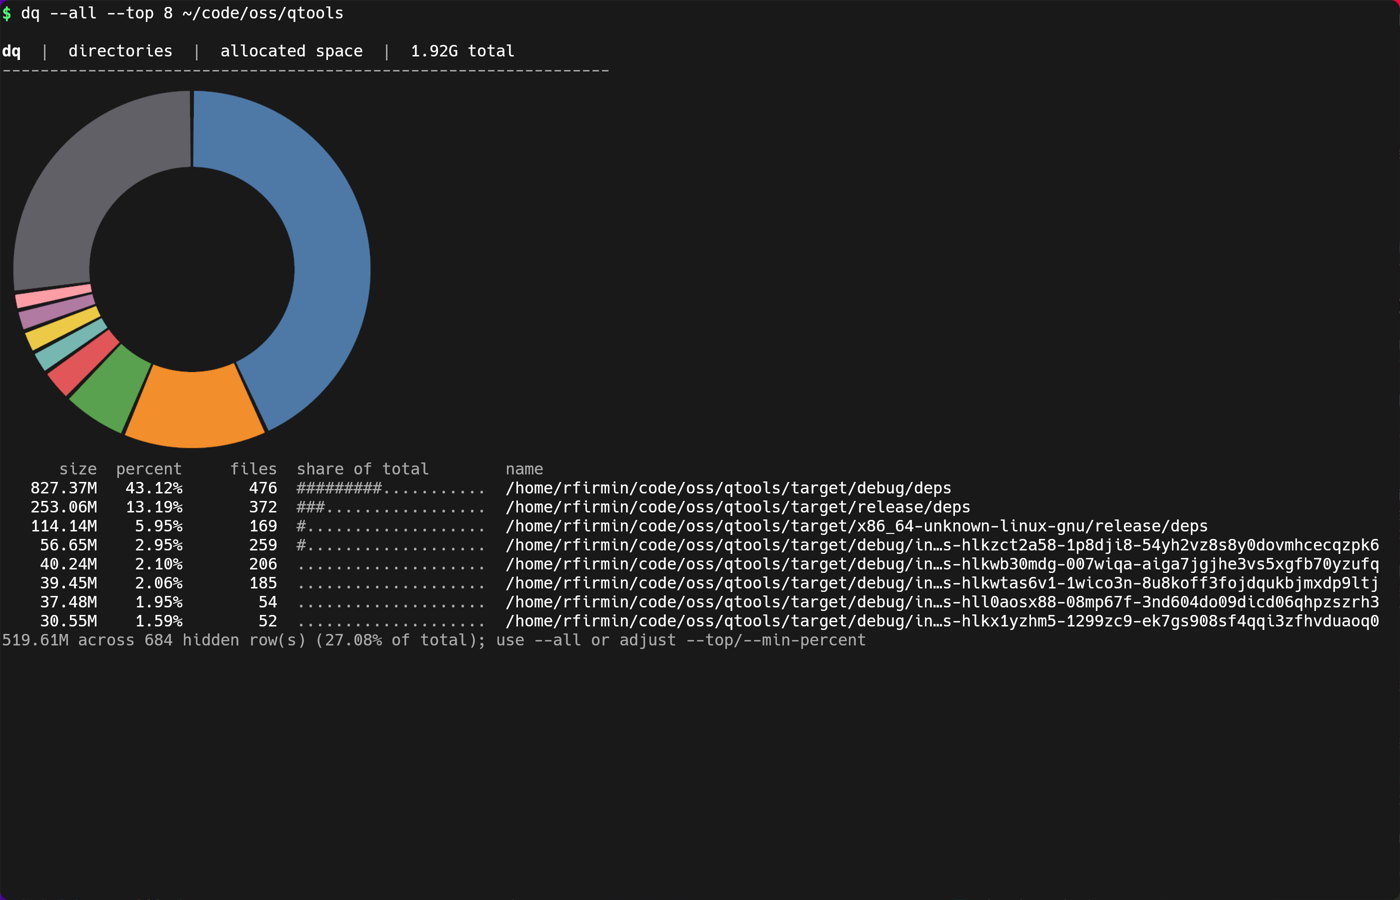
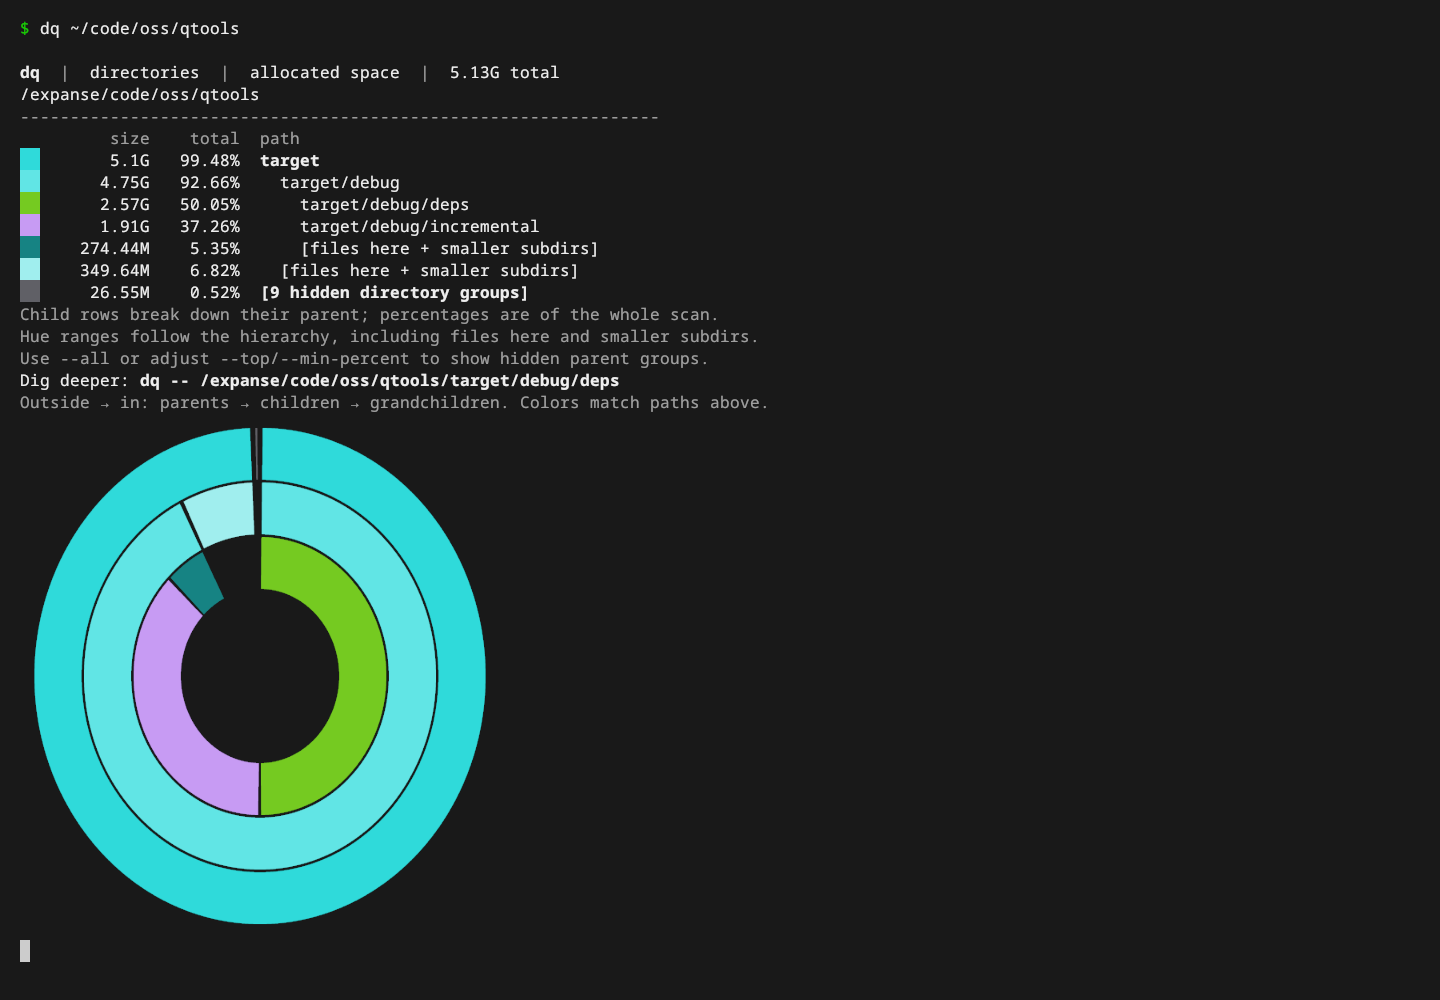
DQ filesystem

diff --git a/src/lib/Gallery.svelte b/src/lib/Gallery.svelte
@@ -9,7 +9,8 @@
     { image: 'pq-network.png', command: 'pq --net -n 8', caption: 'match connections and listeners to processes', title: 'Who is talking?', notes: ['The outer ring is active connections; the inner ring is listening sockets.', 'Red ports are listening on more than localhost.'], alt: 'pq two-ring network overview showing established connections and listeners including keylogger dot sh' },
     { image: 'pq-io.png', command: 'pq --io -n 10', caption: 'see which processes are reading and writing', title: 'Who is doing I/O?', notes: ['Three short-lived demo writers make the comparison visible here.', 'The table shows the rate measured over 400 ms, not a lifetime total.'], alt: 'pq process IO report with three demo workloads and their write rates' },
     { image: 'pq-tree.png', command: 'pq --tree chrome --cpu', caption: 'keep parent and child processes together', title: 'How did it start?', notes: ['The tree keeps parent and child relationships visible.', 'With --cpu, siblings are sorted without flattening the tree.'], alt: 'pq process tree filtered to Chrome with aligned CPU memory swap PID and parent PID columns' },
-    { image: 'dq-project.png', command: 'dq --all --top 8 ~/code/oss/qtools', caption: 'find the largest parts of a project checkout', title: 'Where did the space go?', notes: ['This checkout is mostly compiler output under target.', '--all shows the largest nested directories, not only the first level.'], alt: 'dq allocated-space report showing the largest directories in the qtools project' },
+    { image: 'dq-filesystem.png', command: 'dq --min-percent 5 /expanse', caption: 'see directory hierarchies and free space across a filesystem', title: 'How full is the filesystem?', notes: ['Read outside → in: parent directories, children, grandchildren.', 'Colors in the rings match the indented path list.', 'Free space shares the outer ring with directories.'], alt: 'dq filesystem report with three aligned directory rings, matching path colors, and free space in the outer ring' },
+    { image: 'dq-project.png', command: 'dq ~/code/oss/qtools', caption: 'follow compiler output into its largest subdirectories', title: 'Where did the space go?', notes: ['This checkout is mostly compiler output under target.', 'The inner rings break target down into children and grandchildren.', 'A subdirectory uses the whole chart; free space appears only at filesystem roots.'], alt: 'dq default hierarchy report showing target, its children, and grandchildren in three aligned rings without a free-space arc' },
     { image: 'pq-json.png', command: 'pq --json | head -36', caption: 'use the same process query from a script', title: 'Need the data?', notes: ['--json returns the report data without the terminal chart.', 'CPU, memory, swap, and process members remain separate fields.'], alt: 'pq JSON output showing sample metadata and process cluster fields' }
   ];
 
@@ -47,7 +48,7 @@
           {#each slide.notes as note}<span>{note}</span>{/each}
         </aside>
       </div>
-      <figcaption><code>{slide.command}</code> — {slide.caption}</figcaption>
+      <figcaption><span><code>{slide.command}</code> — {slide.caption}</span><a href={`/assets/screenshots/${slide.image}?v=${screenshotVersion}`} target="_blank" rel="noreferrer" aria-label={`View full-size screenshot: ${slide.title}`}>View full size ↗</a></figcaption>
     </figure>
   </div>
   <nav class="gallery-dots" aria-label="Choose screenshot">

diff --git a/src/app.css b/src/app.css
@@ -85,7 +85,8 @@ footer { display: flex; flex-wrap: wrap; gap: 20px; margin-top: 72px; font-size:
 .slides img { display: block; width: 100%; height: 100%; object-fit: contain; object-position: left top; }
 .feature-frame { position: absolute; right: 24px; bottom: 24px; display: grid; gap: 10px; width: min(330px, 38%); padding: 18px; color: #b9c5be; background: rgba(9,16,13,.94); border: 1px solid #496052; border-radius: 8px; box-shadow: 0 12px 35px rgba(0,0,0,.4); font-size: .82rem; line-height: 1.5; }
 .feature-frame strong { color: #73e2a7; font: 650 1rem system-ui, sans-serif; }
-.slides figcaption { margin-top: 11px; color: #aab7b0; font-size: .84rem; }
+.slides figcaption { display: flex; flex-wrap: wrap; justify-content: space-between; gap: 8px 20px; margin-top: 11px; color: #aab7b0; font-size: .84rem; }
+.slides figcaption a { white-space: nowrap; }
 .gallery-dots { display: flex; justify-content: center; gap: 9px; margin-top: 16px; }
 .gallery-dots button { width: 9px; height: 9px; padding: 0; border: 0; border-radius: 50%; background: #33453c; cursor: pointer; transition: transform .15s, background .15s; }
 .gallery-dots button.active { background: #73e2a7; transform: scale(1.25); }
@@ -329,7 +330,7 @@ main > h1 { margin: 58px 0 28px; font-size: clamp(2.7rem, 6vw, 5rem); }
   .intro-copy { max-width: 560px; }
   .home-intro .toy-screen { grid-template-columns: 1fr; }
   .slide-stage { height: auto; }
-  .gallery-controls { top: 12px; bottom: auto; left: 12px; }
+  .gallery-controls { position: static; width: fit-content; margin-top: 12px; }
 }
 
 @media (max-width: 520px) {
